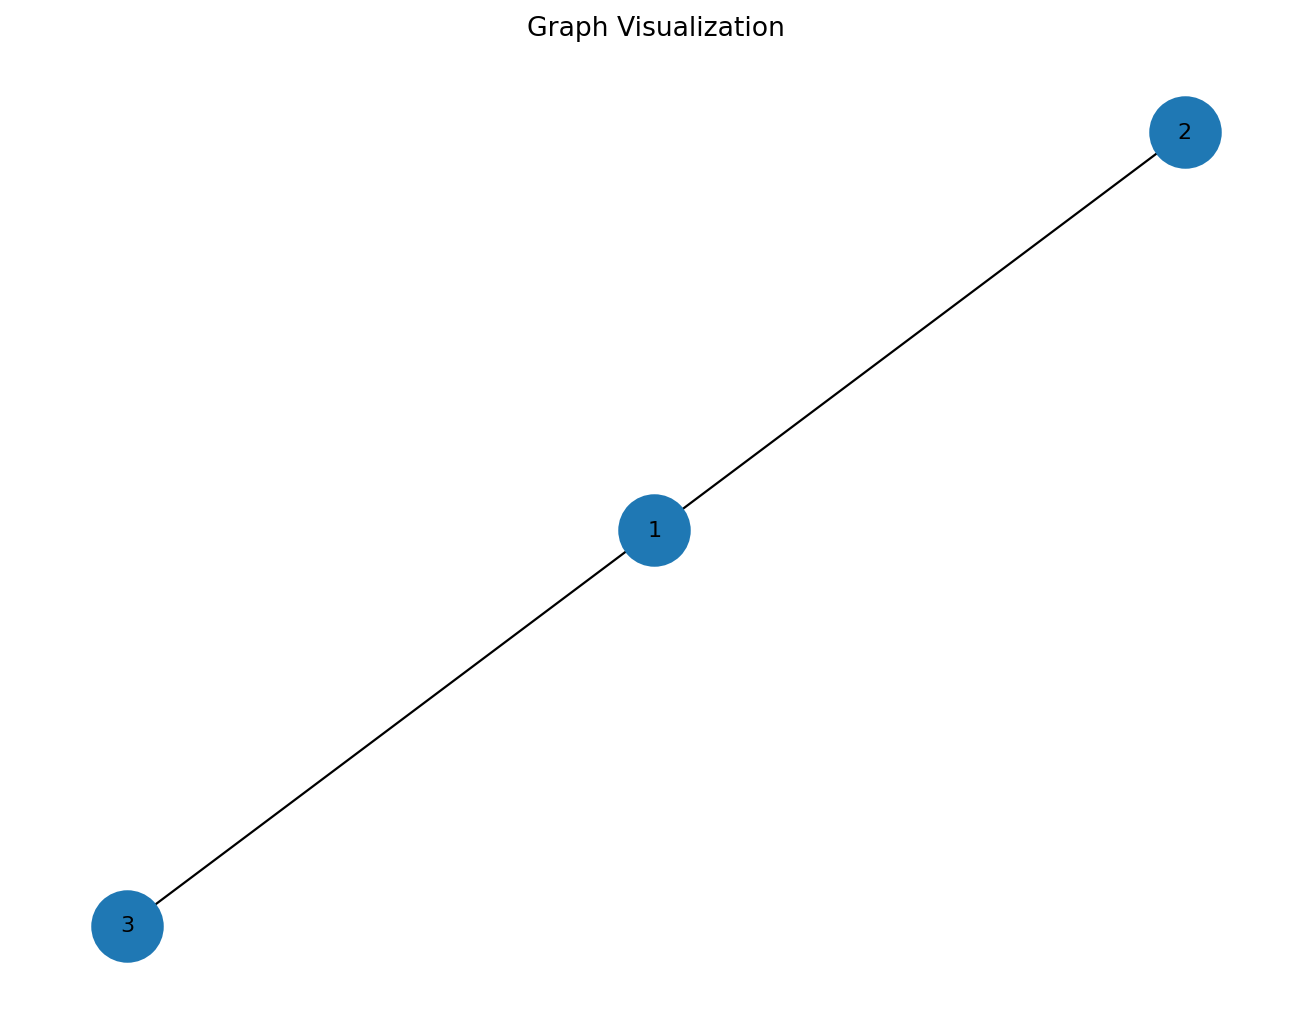
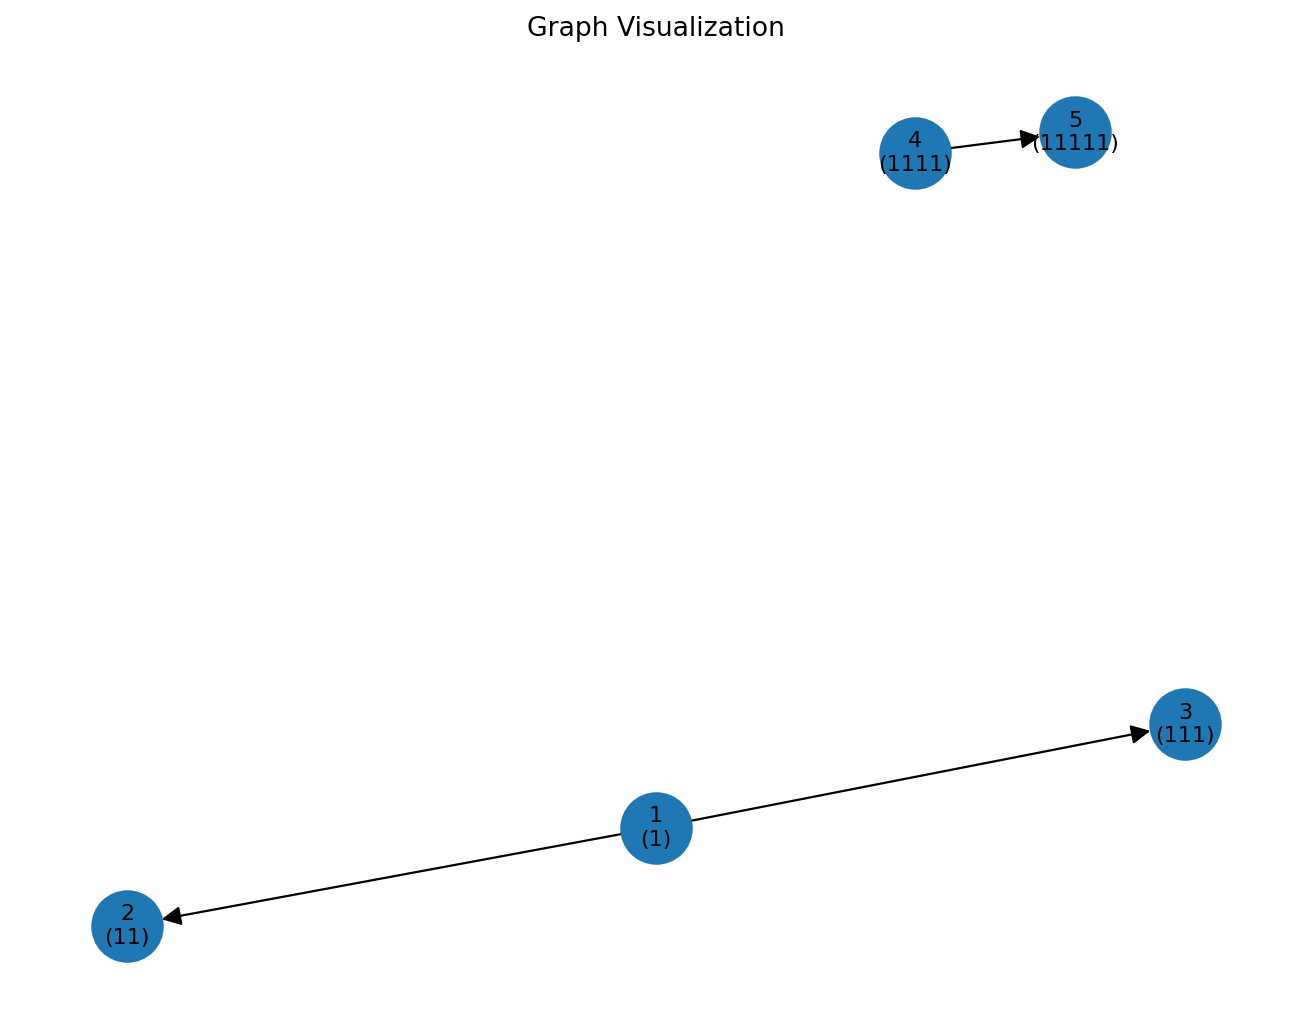
add

diff --git a/source_code/ui/panels.py b/source_code/ui/panels.py
@@ -110,7 +110,7 @@ def create_graph_tab(parent):
         "- 간선 가중치 없음: u v\n"
         "- 간선 가중치 있음: u v w\n\n"
         "정점 가중치 입력 형식\n"
-        "- 정점 가중치"
+        "1 a \n 2 b \n 3 c \n 4 d \n 5 e \n ..."
     )
     description.setWordWrap(True)
 

diff --git a/source_code/ui/graph_controller.py b/source_code/ui/graph_controller.py
@@ -115,7 +115,6 @@ class GraphController:
             if len(parts) != 2:
                 raise ValueError(
                     f"{line_number}번째 정점 가중치 형식이 잘못되었습니다.\n"
-                    "정점 가중치 입력 형식은 '정점 가중치' 입니다.\n"
                     f"문제 줄: {line}"
                 )
 